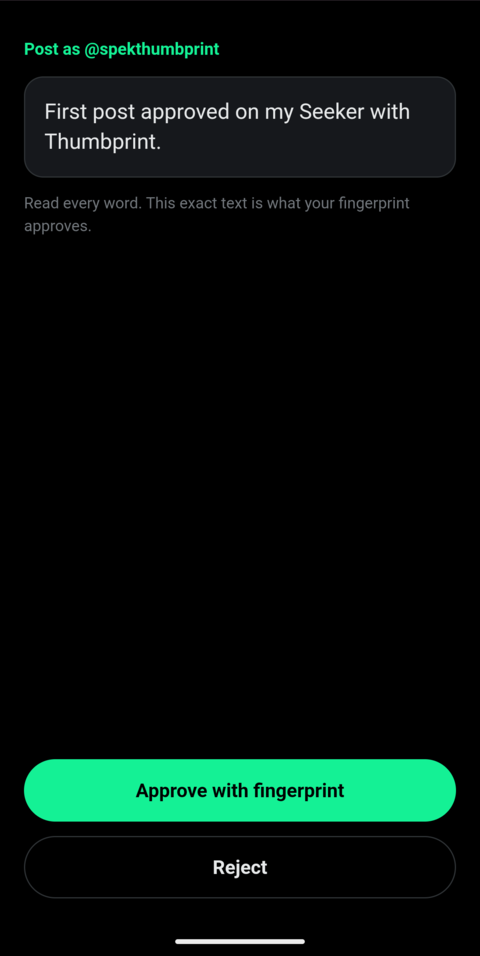
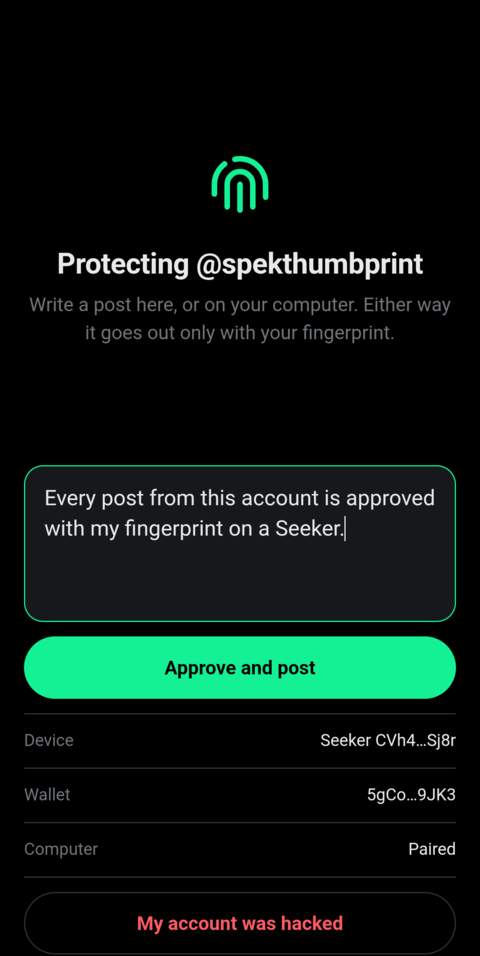
Site: phone screenshot from the app

diff --git a/site/index.html b/site/index.html
@@ -230,7 +230,7 @@
       </div>
       <div class="step reveal">
         <div><span class="label"><span class="num">02</span>Approve</span><h3>Read it on your phone, then use your fingerprint</h3><p>The Seeker shows the words you are about to publish. A key locked inside the phone's secure hardware signs them, and it works only with your fingerprint. No password or PIN can stand in, so nothing on your laptop and no stolen login can approve a post for you. You can also write the post right in the app.</p></div>
-        <figure class="window phone" style="margin:0"><img src="/site/phone.png" alt="The Seeker showing the post text with an Approve with fingerprint button" loading="lazy" width="480" height="810"></figure>
+        <figure class="window phone" style="margin:0"><img src="/site/phone.png" alt="The Thumbprint app on a Seeker with a post written and an Approve and post button" loading="lazy" width="480" height="810"></figure>
       </div>
       <div class="step reveal">
         <div><span class="label"><span class="num">03</span>Read</span><h3>Followers see the mark</h3><p>Approved posts carry a fingerprint next to the name, the same size as the verified check. The card shows when it was approved, on which device, and links to the record on Solana.</p></div>
